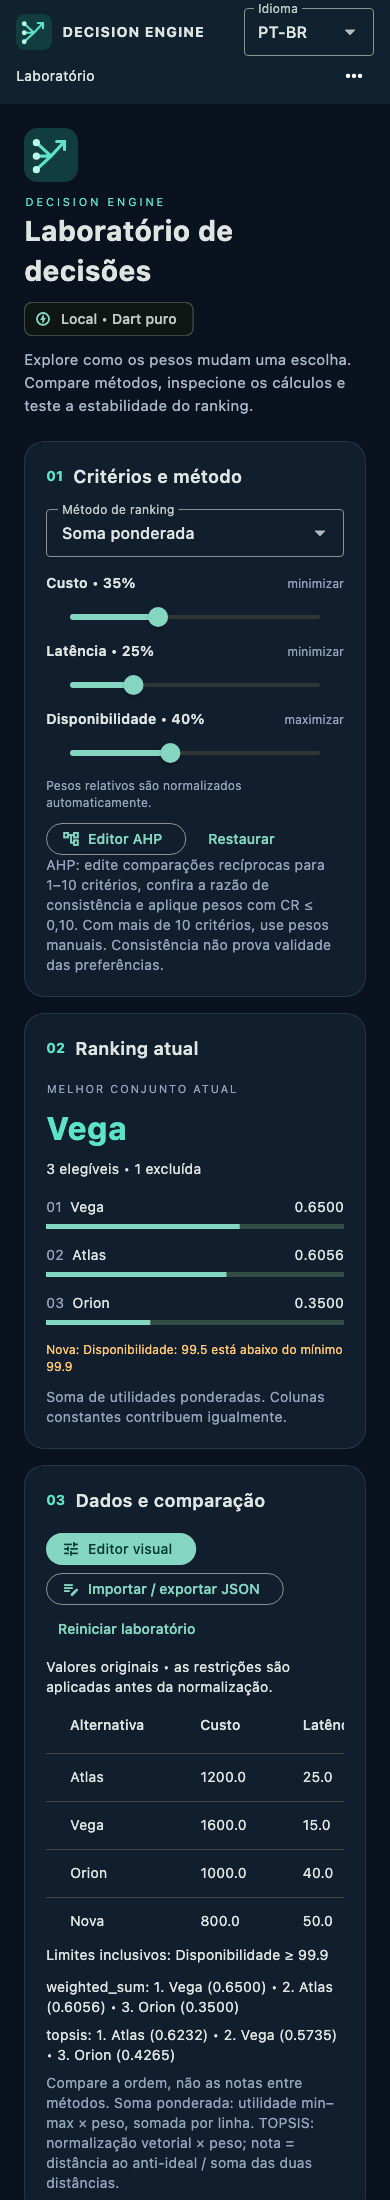
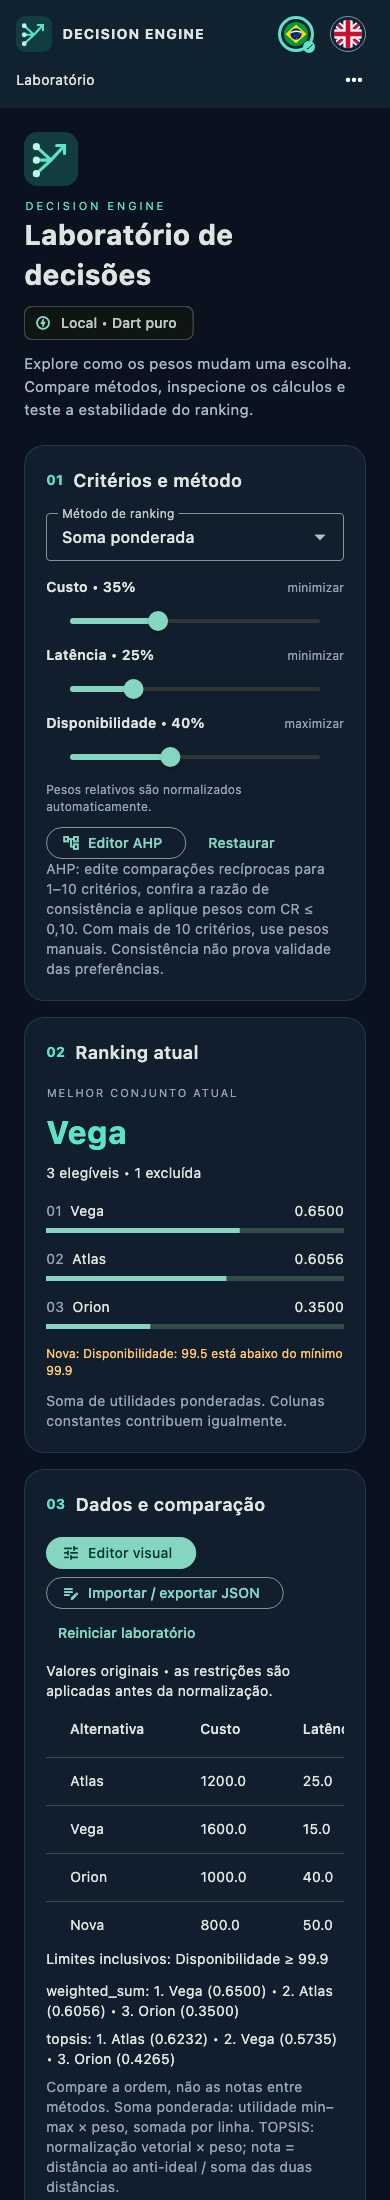
docs: record verified bilingual AHP laboratory deployment

diff --git a/doc/lab_validation.md b/doc/lab_validation.md
@@ -33,7 +33,23 @@ applying weights, preserving them in a 390×844 viewport, opening Learn through
 the mobile menu, and Tab/Enter navigation on desktop. English remained selected
 after reload, and the rendered HTML language attribute was `en`. Viewport override
 was reset after inspection. Documentation targets for English methods and PT-BR
-getting-started returned HTTP 200. Public deployment is verified below.
+getting-started returned HTTP 200. The initial combined run 44177633354 passed core/consumer checks and stopped at
+Flutter 3.50's relocated localization symbol. The narrow minimum-SDK bridge was
+corrected in source
+[294d9ee](https://github.com/kleberandrade/decision-engine/commit/294d9eeca4af2308310176afcea4486c9a19abfc).
+All five jobs passed in
+[run 44178601266](https://github.com/kleberandrade/decision-engine/actions/runs/44178601266),
+including stable Flutter 3.50 lab tests/build and Pages deployment.
+
+The updated [public app](https://kleberandrade.github.io/decision-engine/) was
+opened in Chrome and verified as a rendered application: original mark, circular
+Brazil/UK flags and selected check, EN/PT-BR controls, mobile navbar and English
+Learn at 390×844. On the public app, the AHP matrix opened, the consistent example
+was applied, and the dashboard showed 30/10/60 weights, CR 0.0000 and Vega=0.7000.
+The viewport override was reset and the live public app was kept open. New native
+captures were refreshed after the flag change. README/About keep the verified
+Pages link; the GitHub description and ten actual topics reflect the implemented
+features. No package upload or version tag was performed.
 
 ## AHP matrix update
 

diff --git a/doc/engineering_log.md b/doc/engineering_log.md
@@ -242,3 +242,9 @@
 
 - Added the circular-flag selection test; final local suite now has 29 lab tests
   (84 total including core/consumer), retaining all AHP and scenario checks.
+
+- Source 294d9ee passed every job in CI run 44178601266, including Flutter 3.50
+  analysis/tests/Web build and Pages. Verified the actual public app in Chrome:
+  circular flags, localized mobile navigation/Learn, AHP matrix and applied
+  30/10/60 weights with CR=0 and Vega=0.7000. Reset browser viewport and refreshed
+  all native captures. Added exact source/run/public links to lab_validation.md.
